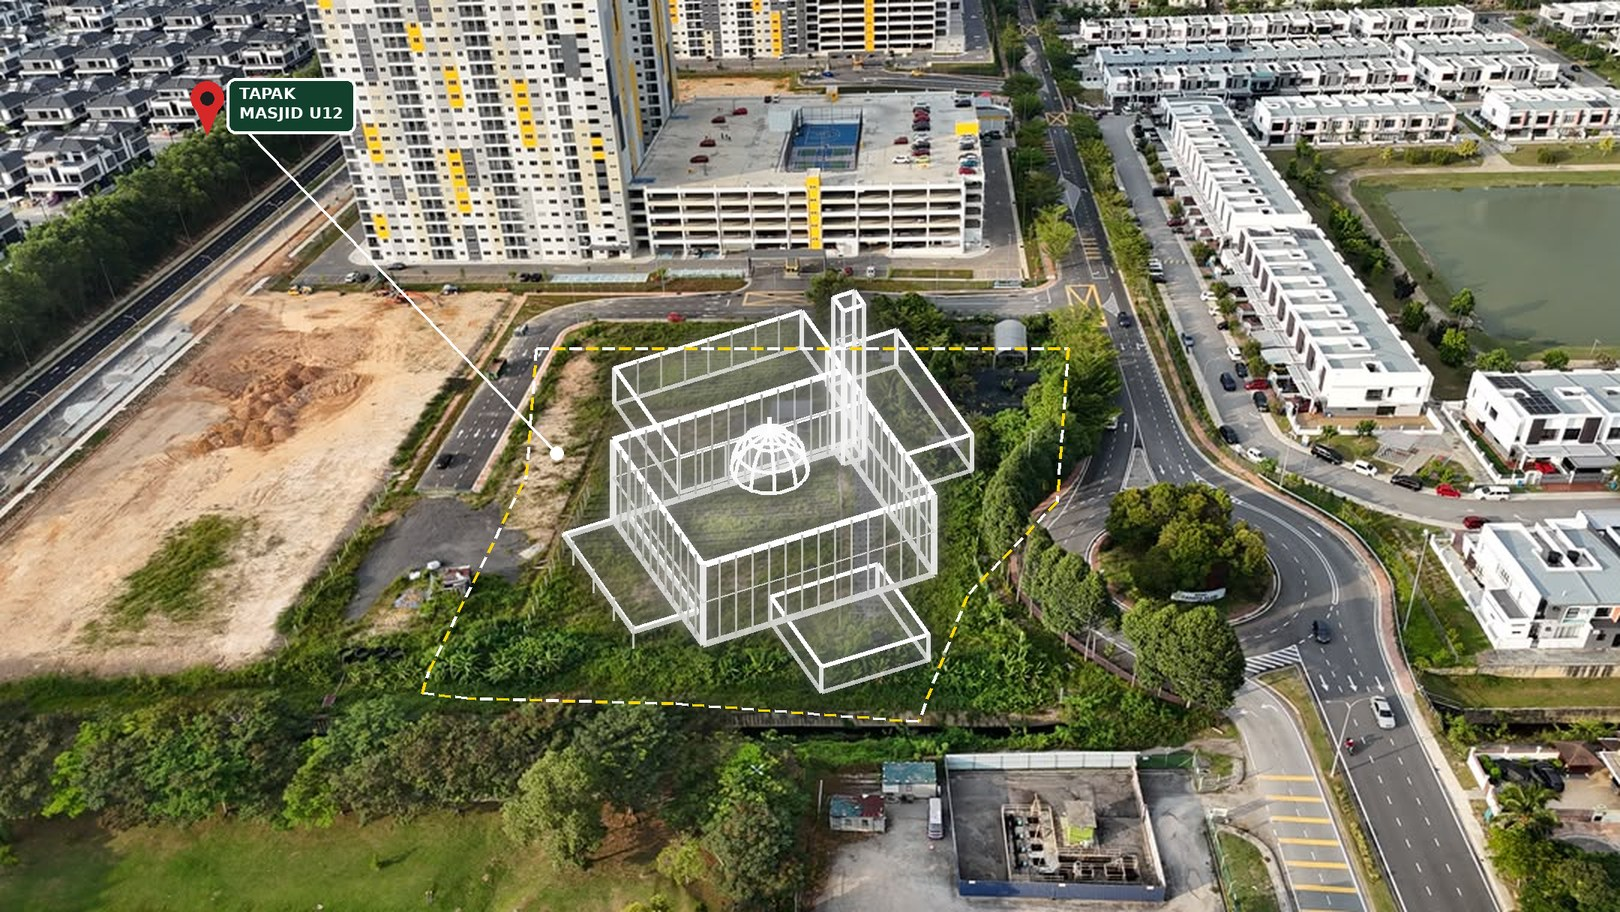
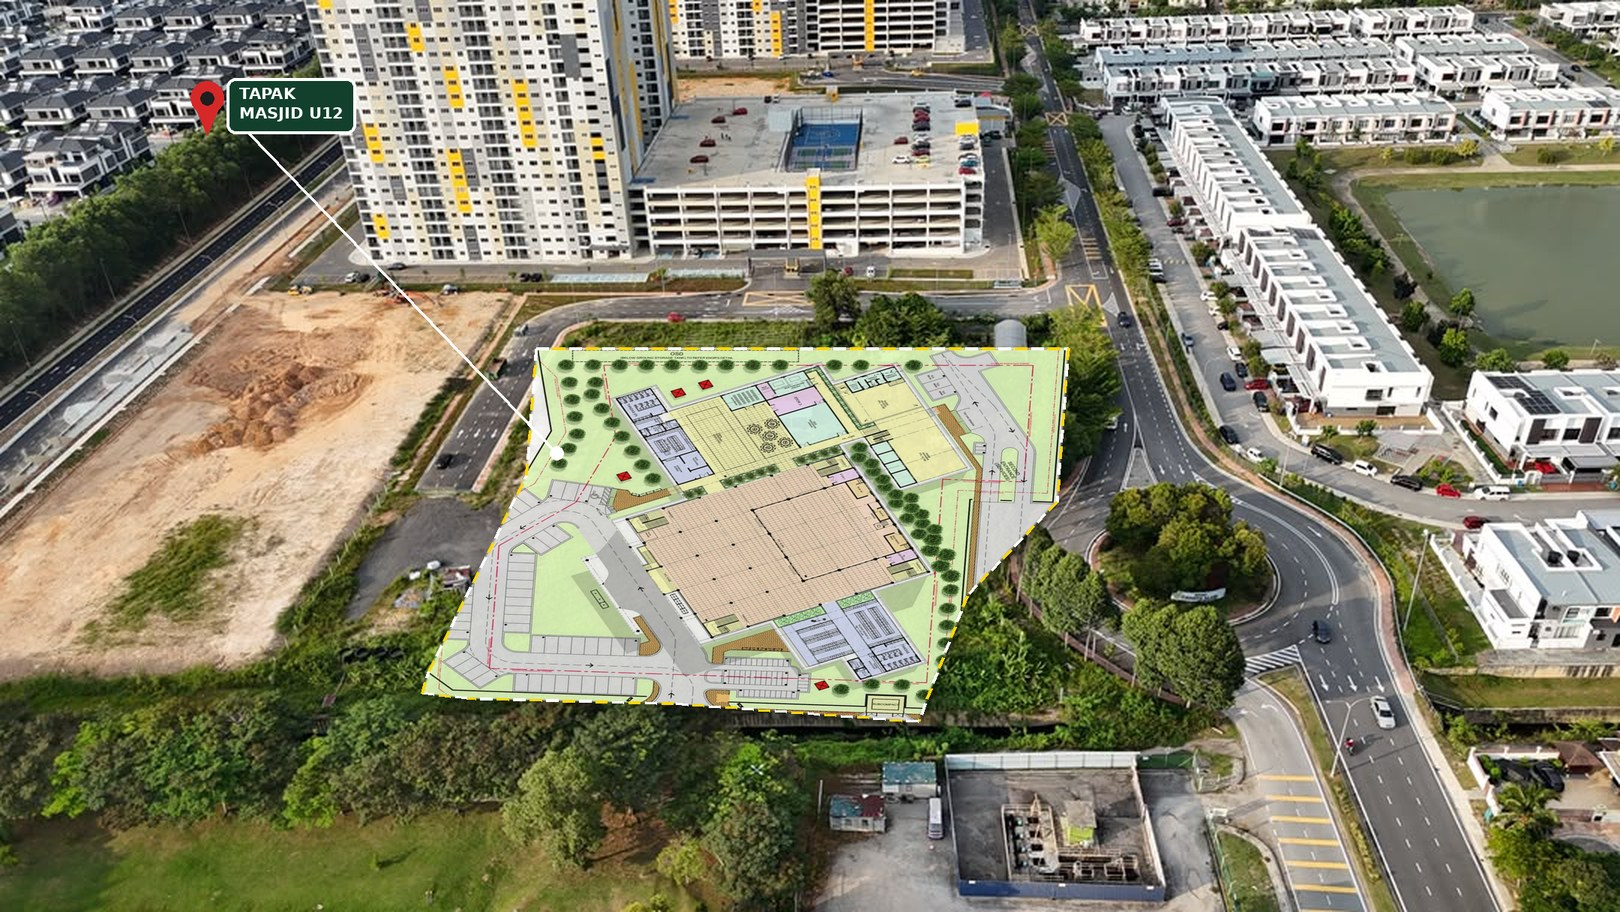
Letak semula pelan tapak berwarna pada foto tapak dengan paparan lebih realistik
Claude-Session: https://claude.ai/code/session_019rDfzMse4bgd1cjAXrs2L3

Changed region(s): [[0.2469, 0.307, 0.679, 0.7982]]

diff --git a/index.html b/index.html
@@ -379,18 +379,18 @@ footer h4{margin:0 0 12px;font-size:13px;letter-spacing:.14em;text-transform:upp
   <div class="wrap">
     <p class="kicker" data-en="Location">Lokasi</p>
     <h2 data-en="Construction Site Location">Lokasi Tapak Pembinaan</h2>
-    <p class="intro" data-en="The mosque site in Cahaya Alam, Section U12, Shah Alam, seen from the air. On the right, the proposed mosque is shown superimposed on the actual site.">Tapak masjid di Cahaya Alam, Seksyen U12, Shah Alam, dilihat dari udara. Di sebelah kanan, masjid cadangan dipaparkan di atas tapak sebenar.</p>
+    <p class="intro" data-en="The mosque site in Cahaya Alam, Section U12, Shah Alam, seen from the air. On the right, the proposed site plan is superimposed on the actual site.">Tapak masjid di Cahaya Alam, Seksyen U12, Shah Alam, dilihat dari udara. Di sebelah kanan, pelan tapak cadangan diletakkan di atas tapak sebenar.</p>
     <div class="sitepair">
       <figure class="shot">
         <button type="button" data-full="img/tapak-udara.jpg" data-cap="Tapak masjid sedia ada (pandangan udara)" data-en-cap="The existing mosque site (aerial view)"><img src="img/tapak-udara.jpg" alt="Pandangan udara tapak masjid U12 yang masih kosong, dikelilingi jalan dan kawasan perumahan" data-en-alt="Aerial view of the still-vacant Masjid U12 site, surrounded by roads and housing" width="1080" height="608" loading="lazy"></button>
         <figcaption data-en="The existing site (aerial view)">Tapak sedia ada (pandangan udara)</figcaption>
       </figure>
       <figure class="shot">
-        <button type="button" data-full="img/lokasi-tapak.jpg" data-cap="Visualisasi masjid cadangan di atas tapak sebenar" data-en-cap="Visualisation of the proposed mosque on the actual site"><img src="img/lokasi-tapak.jpg" alt="Model masjid cadangan dilapiskan pada gambar udara tapak sebenar, dengan sempadan tapak bergaris putus-putus" data-en-alt="The proposed mosque modelled over the aerial photo of the actual site, with the site boundary in dashed lines" width="1080" height="608" loading="lazy"></button>
-        <figcaption data-en="The proposed mosque on the site (visualisation)">Masjid cadangan di atas tapak (visualisasi)</figcaption>
+        <button type="button" data-full="img/lokasi-tapak.jpg" data-cap="Pelan tapak cadangan diletakkan di atas tapak sebenar" data-en-cap="The proposed site plan superimposed on the actual site"><img src="img/lokasi-tapak.jpg" alt="Pelan tapak cadangan masjid diletakkan di atas gambar udara tapak sebenar, dengan sempadan tapak bergaris putus-putus" data-en-alt="The proposed mosque site plan superimposed on the aerial photo of the actual site, with the site boundary in dashed lines" width="1080" height="608" loading="lazy"></button>
+        <figcaption data-en="Proposed site plan superimposed on the site">Pelan tapak cadangan di atas tapak</figcaption>
       </figure>
     </div>
-    <p class="note" data-en="The visualisation is indicative only. The building is a simplified massing model based on the proposed site plan; its position, scale and perspective are approximate and do not replace the survey plan or the plans approved by the authorities.">Visualisasi ini hanya sebagai gambaran. Bangunan ialah model ringkas berdasarkan pelan tapak cadangan; kedudukan, skala dan perspektifnya adalah anggaran dan tidak menggantikan pelan ukur atau pelan yang diluluskan pihak berkuasa.</p>
+    <p class="note" data-en="The superimposed image is indicative only. Its position, scale and perspective are approximate and do not replace the survey plan or the plans approved by the authorities.">Imej gabungan ini hanya sebagai gambaran. Kedudukan, skala dan perspektifnya adalah anggaran dan tidak menggantikan pelan ukur atau pelan yang diluluskan pihak berkuasa.</p>
     <div class="coord">
       <div class="cico"><svg width="28" height="28" viewBox="0 0 24 24" fill="none" stroke="currentColor" stroke-width="1.8" stroke-linecap="round" stroke-linejoin="round" aria-hidden="true"><path d="M12 22s7-6.2 7-12a7 7 0 0 0-14 0c0 5.8 7 12 7 12z"/><circle cx="12" cy="10" r="2.6"/></svg></div>
       <dl>
